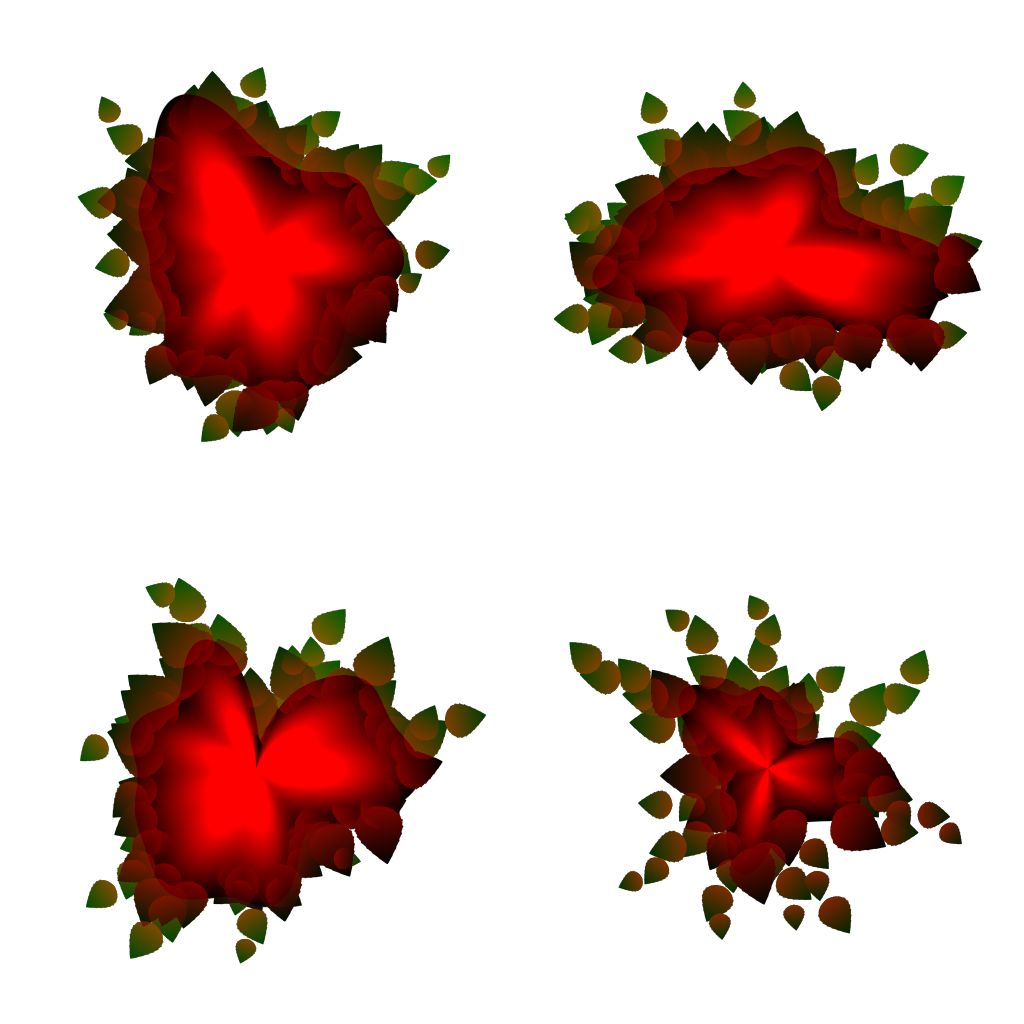
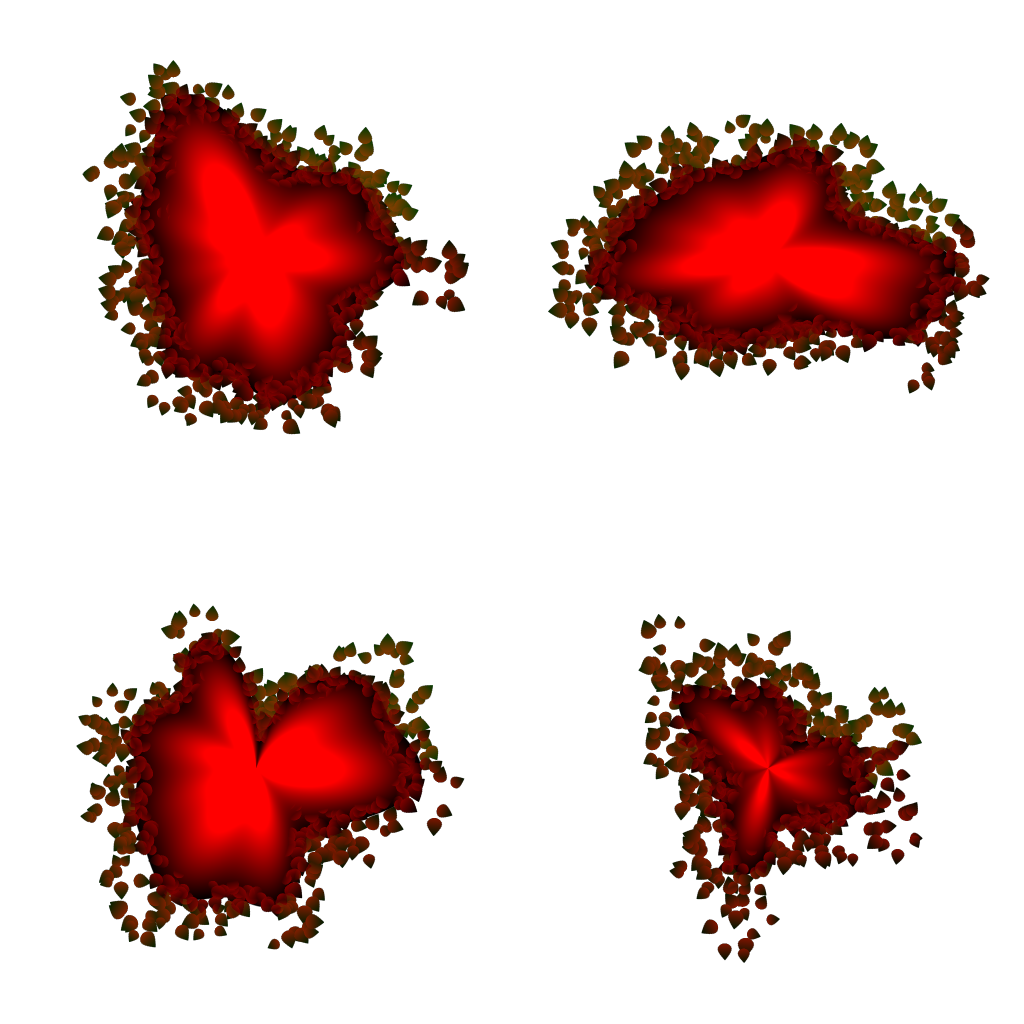
LT1: trees: the birch's crown as four masses with a fine broken edge (the card a birch's fringe, not bold leaves), muted and darker near (near trees darker, by distance), its limbs shaded inside and under the masses

diff --git a/blender/parts/trees/mass_card.py b/blender/parts/trees/mass_card.py
@@ -1,7 +1,8 @@
-"""The mass card: a clump of bold leaves as a painter blocks a crown's mass, solid within and broken only at its edge
+"""The mass card: a piece of a crown's mass as a painter blocks it, solid within and broken only at its edge
 (reviews/lt1/art-direction/README.md, the trees: masses, never leaves). Four cells, 2 by 2: a round clump, a wide one
-for a mass's underside, a notched one, and a thin one for a crown losing itself upward. Leaves are drawn larger than
-life (Firewatch's lesson) and only where the edge shows; inside, one solid value, no speckle.
+for a mass's underside, a notched one, and a thin one for a crown losing itself upward. The edge is a birch's: a fine
+fringe of small leaves (a few centimetres on a card of 1.6 m, never legible one by one past a few metres) and fine
+sprays standing out of it, so the outline has promontories and bays of sky; inside, one solid value, no speckle.
 
 Channels: r how far in from the clump's edge (0 at a leaf's tip, 1 in the solid core), g each leaf's own seed (0 the
 core), b 0, a coverage. Numpy only; deterministic (seeded from the part's name through blender/resolver/hashing.py).
@@ -78,7 +79,7 @@ def paint_cell(kind, seed):
     depth = np.clip((edge - rho) / 0.3, 0.0, 1.0).astype(np.float32)
     ids = np.zeros_like(cover)
     s = HS.Stream("mass-card-leaves", kind, seed)
-    L = 0.11 * n                       # a leaf, drawn larger than life
+    L = 0.035 * n                      # a leaf: about 5 cm on a near card of 1.6 m
     count = 0
 
     def at(a, reach):
@@ -86,29 +87,26 @@ def paint_cell(kind, seed):
         return cx + math.cos(a) * e * reach * sx * hw, cy + math.sin(a) * e * reach * sy * hw
 
     # the core's outline broken by leaves lying over it, each its own way (never a ring of teeth)
-    ring = 46 if kind != "thin" else 18
+    ring = 150 if kind != "thin" else 60
     for k in range(ring):
-        a = 2 * math.pi * (k + s.uniform(-0.4, 0.4)) / ring
-        bx, by = at(a, s.uniform(0.72, 0.98))
+        a = 2 * math.pi * (k + s.uniform(-0.45, 0.45)) / ring
+        bx, by = at(a, s.uniform(0.86, 1.0))
         count += 1
-        leaf(cover, ids, depth, xs, ys, bx, by, a + s.uniform(-1.1, 1.1), L * s.uniform(0.7, 1.1), count / 200.0)
-    # sprigs: a few leaves along a short twig standing out of the mass, uneven round it, so the outline has
-    # promontories and bays of sky (the broken edge of a painted mass)
-    sprigs = {"round": 11, "wide": 12, "notched": 9, "thin": 13}[kind]
-    for k in range(sprigs):
-        a = 2 * math.pi * (k + s.uniform(-0.45, 0.45)) / sprigs
-        bx, by = at(a, 0.85)
-        head = a + s.uniform(-0.45, 0.45)
-        reach = L * s.uniform(0.5, 1.6) * (1.3 if kind == "thin" else 1.0)
-        # leaves close enough along it to overlap: a sprig is one shape, never loose leaves in the air
-        m = max(2, int(math.ceil(reach / (0.45 * L))))
-        for j in range(m):
-            t = j / (m - 1)
-            px, py = bx + math.cos(head) * reach * t, by + math.sin(head) * reach * t
-            side = 1 if j % 2 == 0 else -1
+        leaf(cover, ids, depth, xs, ys, bx, by, a + s.uniform(-1.2, 1.2), L * s.uniform(0.7, 1.15), count / 2000.0)
+    # clumps: small sprays of leaves gathered round a twig's end, set on and just out of the outline, uneven round
+    # it, so the outline breaks at three scales (the core's broad lobes, the clumps, the leaves) with bays of sky
+    # between them (the broken edge of a painted mass)
+    clumps = {"round": 34, "wide": 36, "notched": 30, "thin": 30}[kind]
+    for k in range(clumps):
+        a = 2 * math.pi * (k + s.uniform(-0.5, 0.5)) / clumps
+        cxk, cyk = at(a, s.uniform(0.92, 1.5 if kind == "thin" else 1.25))
+        rad = L * s.uniform(1.2, 3.2) * (1.2 if kind == "thin" else 1.0)
+        for _ in range(int(4 + 3 * rad / L)):
+            # each leaf from a point inside the clump, heading out of it: the clump's own edge is leaf tips
+            q, d = s.uniform(0, 2 * math.pi), rad * math.sqrt(s.uniform(0.0, 1.0)) * 0.55
+            px, py = cxk + math.cos(q) * d, cyk + math.sin(q) * d
             count += 1
-            leaf(cover, ids, depth, xs, ys, px, py, head + side * s.uniform(0.2, 0.6), L * s.uniform(0.6, 1.0) * (1.0 - 0.25 * t),
-                 count / 200.0)
+            leaf(cover, ids, depth, xs, ys, px, py, q + s.uniform(-0.7, 0.7), L * s.uniform(0.7, 1.1), count / 2000.0)
     return depth, ids, cover
 
 

diff --git a/blender/parts/trees/corner.py b/blender/parts/trees/corner.py
@@ -288,8 +288,9 @@ def cards(mesh, tl, kind, lv, seed, H, vols, lobes, base):
     return count
 
 
-def bark(mesh, tl, lv, kind, H, sub="bark"):
-    """The trunk and limbs (tree.py's wood), its tips drawn only as the level shows them, the foot rooted."""
+def bark(mesh, tl, lv, kind, H, sub="bark", vols=()):
+    """The trunk and limbs (tree.py's wood), its tips drawn only as the level shows them, the foot rooted; wood inside
+    a mass sees little sky (its limbs dark in the crown's shade, white only where they come out of it)."""
     parts = dict(T.PARTS["birch"])
     parts["draw_tips_per_m"] = float(lv["draw_tips_per_m"])
     parts["winter_tips"] = T.drawn_tips(parts, H)
@@ -320,12 +321,29 @@ def bark(mesh, tl, lv, kind, H, sub="bark"):
         for i in f:
             Nacc[i] += n
     Nn = Nacc / np.maximum(np.linalg.norm(Nacc, axis=1, keepdims=True), 1e-12)
+    # how deep each vertex is in the foliage (each mass's whole skin, its seams too: the leaves round a limb shade
+    # it even where the drawn masses part)
+    deep = np.full(len(V), -1.0)
+    for v in vols:
+        if v is not None:
+            deep = np.maximum(deep, inside(v, V))
+    k_in = float(kind.get("limb_sky", 1.0))
+    shade = 1.0 - (1.0 - k_in) * np.clip((deep + 0.3) / 0.5, 0.0, 1.0)
+    # and under a mass: wood in a seam between masses sees the sky only from the side
+    k_under = float(kind.get("limb_under", 1.0))
+    for v in vols:
+        if v is not None:
+            q = V.copy()
+            q[:, 2] = v[0][2]
+            under = (V[:, 2] < v[0][2]) & (inside(v, q) > 0.0)
+            shade = np.where(under, np.minimum(shade, k_under), shade)
     li = 0
     for f in F:
         vs = []
         for i in f:
-            sky = 0.6 + 0.4 * max(Nn[i][2], 0.0)
-            vs.append(mesh.vert(tuple(V[i]), tuple(Nn[i]), (sky, 0.2, 1.0, 0.0), tuple(UV0[li]), tuple(UV1[li])))
+            sky = (0.6 + 0.4 * max(Nn[i][2], 0.0)) * float(shade[i])
+            # r the sky it sees (its facing and the foliage round it), b the foliage's shade alone
+            vs.append(mesh.vert(tuple(V[i]), tuple(Nn[i]), (sky, 0.2, float(shade[i]), 0.0), tuple(UV0[li]), tuple(UV1[li])))
             li += 1
         for j in range(1, len(vs) - 1):
             mesh.tri(sub, vs[0], vs[j], vs[j + 1])
@@ -364,7 +382,7 @@ def birch(tid, fact, kind, levels):
     for name in levels:
         lv = kind["levels"][name]
         mesh = Mesh()
-        bark(mesh, tl, lv, kind, H)
+        bark(mesh, tl, lv, kind, H, vols=vols)
         n = cards(mesh, tl, kind, lv, seed, H, vols, lobes, base)
         if lv.get("shadow"):
             proxies(mesh, vols, float(kind["shell"]))

diff --git a/unity/Assets/Code/Editor/LT1CornerTrees.cs b/unity/Assets/Code/Editor/LT1CornerTrees.cs
@@ -32,7 +32,7 @@ namespace Overstory.EditorTools
         {
             public string habit, part, albedo, albedo2, foot_colour, twig_colour;
             public float cutoff = 0.45f, mark_reach, veil = 1f;
-            public float[] bands, values, lost, lamp, foot, marks, bark_tile, twig_r;
+            public float[] bands, values, lost, lamp, foot, marks, bark_tile, twig_r, near;
         }
         [Serializable] public class Look { public string cache, atlas; public Level[] levels; public PartLook[] parts; }
         [Serializable] public class TreeLevel { public string level, file; public int drawn; }
@@ -168,6 +168,7 @@ namespace Overstory.EditorTools
             m.SetVector("_LampPos", lampHead);
             m.SetColor("_LampColour", lampSrgb);
             m.SetFloat("_Veil", l.veil);
+            m.SetVector("_Near", V(l.near, new Vector4(12f, 40f, 1f, 0f)));
             m.renderQueue = (int)RenderQueue.AlphaTest;
             return m;
         }
